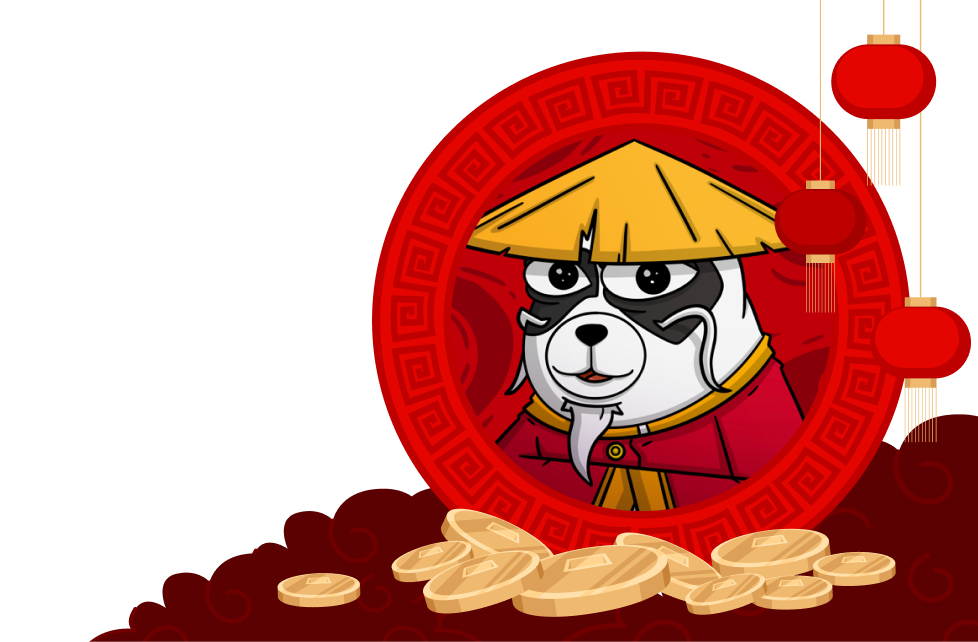
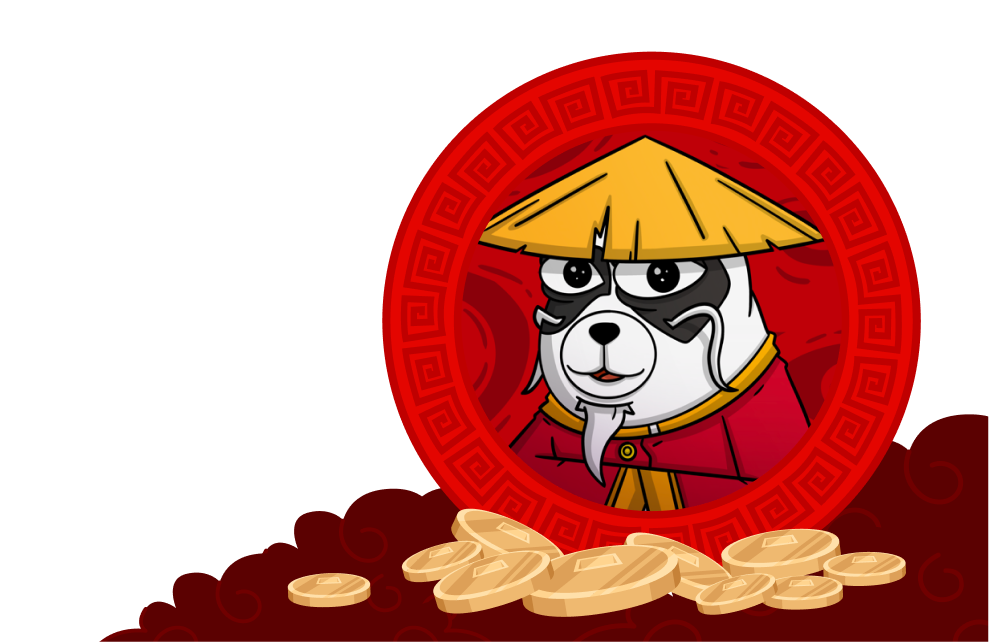
s

diff --git a/index.html b/index.html
@@ -33,17 +33,17 @@
             </div>
 
             <div class="social relative flex justify-center items-center w-auto h-full gap-[.5rem] md:gap-[1rem]">
-                <a target="_blank" href="#" class="rounded-full duration-300 hover:scale-110 border-[1.9px] border-[#BAC3ED] w-[35px] h-[35px] md:w-[56.35px] md:h-[56.35px] relative flex justify-center items-center">
+                <a target="_blank" href="https://www.x.com/" class="rounded-full duration-300 hover:scale-110 border-[1.9px] border-[#BAC3ED] w-[35px] h-[35px] md:w-[56.35px] md:h-[56.35px] relative flex justify-center items-center">
                     <div class="rounded-full border-[1.3px] border-[white] w-[90%] h-[90%] relative flex justify-center items-center">
                         <img src="./assets/images/twitter.svg" alt="" class="w-[50%] object-contain h-auto">
                     </div>
                 </a>
-                <a target="_blank" href="#" class="rounded-full duration-300 hover:scale-110 border-[1.9px] border-[#BAC3ED] w-[35px] h-[35px] md:w-[56.35px] md:h-[56.35px] relative flex justify-center items-center">
+                <a target="_blank" href="https://web.telegram.org/" class="rounded-full duration-300 hover:scale-110 border-[1.9px] border-[#BAC3ED] w-[35px] h-[35px] md:w-[56.35px] md:h-[56.35px] relative flex justify-center items-center">
                     <div class="rounded-full border-[1.3px] border-[#hite] w-[90%] h-[90%] relative flex justify-center items-center">
                         <img src="./assets/images/telegram.svg" alt="" class="w-[50%] object-contain h-auto">
                     </div>
                 </a>
-                <a target="_blank" href="#" class="rounded-full duration-300 hover:scale-110 border-[1.9px] border-[#BAC3ED] w-[35px] h-[35px] md:w-[56.35px] md:h-[56.35px] relative flex justify-center items-center">
+                <a target="_blank" href="https://solana.com/" class="rounded-full duration-300 hover:scale-110 border-[1.9px] border-[#BAC3ED] w-[35px] h-[35px] md:w-[56.35px] md:h-[56.35px] relative flex justify-center items-center">
                     <div class="rounded-full border-[1.3px] border-[white] w-[90%] h-[90%] relative flex justify-center items-center">
                         <img src="./assets/images/sol.png" alt="" class="w-[50%] object-contain h-auto sol_img">
                     </div>
@@ -78,9 +78,9 @@
                     <button class="bg-[#ffffff5b] flex justify-center items-center duration-300 hover:scale-110 px-[1.2rem] h-[40px] md:h-[54px] border-[2px] border-white rounded-full text-[16px] uppercase">
                         Chart
                     </button>
-                    <button class="bg-[#fff] flex justify-center items-center duration-300 hover:scale-110 px-[1.2rem] h-[40px] md:h-[54px] border-[2px] border-white text-[#F0000C] rounded-full text-[16px] uppercase">
+                    <a href="https://web.telegram.org/" target="_blank" class="bg-[#fff] flex justify-center items-center duration-300 hover:scale-110 px-[1.2rem] h-[40px] md:h-[54px] border-[2px] border-white text-[#F0000C] rounded-full text-[16px] uppercase">
                         BUY POPO
-                    </button>
+                    </a>
                 </div>
                 <div class="copy_address cursor-pointer flex items-center text-[17px] md:text-[21.83px] gap-[.4rem]" data-aos="fade-up"
                 data-aos-duration="500"
@@ -129,6 +129,8 @@
                     <img src="./assets/images/about_image.png" alt="" class="h-[641.81px] object-contain w-auto bottom-[-20%] lg:bottom-0 right-0 absolute">
                     <img src="./assets/images/about_bg.png" alt="" class="h-[161.4px] object-contain w-auto bottom-0 right-[40%] min-[1600px]:right-[50%] absolute">
 
+                    <!-- lentera -->
+                     <img src="./assets/images/lentera_about.svg" alt="" class="absolute object-contain h-auto w-[100px] lg:w-[150px] top-[50%] lg:top-[-10%] right-0 lampion">
                     <!-- cloud -->
                      <img src="./assets/images/cloud1.svg" alt="cloud" class="h-auto object-contain absolute top-[46%] min-[500px]:top-[50vw] right-[-10%] lg:top-[-7%] lg:right-[2%] w-[250px] lg:w-[470.31px] cloud_animation">
                      <img src="./assets/images/cloud2.svg" alt="cloud" class="h-auto object-contain absolute top-[50%] xl:top-[7%] right-[45%] xl:right-[22%] w-[180px] xl:w-[380.31px] cloud_animation" style="animation-delay: -.7s; animation-duration: 17s;">
@@ -146,9 +148,9 @@
                    <div class="relative" data-aos="fade-right"
                    data-aos-duration="500"
                    data-aos-delay="500">
-                    <button class="bg-[#fff] flex justify-center items-center duration-300 hover:scale-110 px-[1.2rem] h-[40px] md:h-[54px] border-[2px] border-white text-[#F0000C] rounded-full text-[16px] uppercase unbounded_font font-bold">
+                    <a href="https://web.telegram.org/" target="_blank" class="bg-[#fff] flex justify-center items-center duration-300 hover:scale-110 px-[1.2rem] h-[40px] md:h-[54px] border-[2px] border-white text-[#F0000C] rounded-full text-[16px] uppercase unbounded_font font-bold">
                         BUY POPO
-                    </button>
+                    </a>
                    </div>
 
                 </div>
@@ -163,7 +165,7 @@
 
             <!-- bg -->
             <div class="bg w-full h-full z-[0] absolute"> 
-                <img src="./assets/images/lentera.png" alt="" class="object-contain absolute top-[-10%] xl:top-[-3%] left-0 h-auto w-[100px] xl:w-[196.47px]"> 
+                <img src="./assets/images/lentera.png" alt="" class="object-contain absolute top-[-10%] xl:top-[-3%] left-0 h-auto w-[100px] xl:w-[196.47px] lampion"> 
 
                 <!-- cloud -->
                  <img src="./assets/images/cloud1.svg" alt="cloud" class="h-auto object-contain absolute top-[0%] min-[500px]:top-[50vw] right-[-10%] lg:top-[7%] lg:right-[-12%] w-[250px] lg:w-[470.31px] cloud_animation">
@@ -173,9 +175,12 @@
             <!-- content -->
              <div class="content w-full h-[600px]  relative max-[1024px]:flex-col xl flex items-center justify-center gap-[2rem] lg:gap-[6rem]  max-[1024px]:pb-[2rem]">
 
-                <img src="./assets/images/token_img.png" alt="" class="w-[340px] md:w-[400px] xl:w-[500.94px] h-auto object-contain" data-aos="fade-right"
-                data-aos-duration="500"
-                data-aos-delay="100">
+                <div class="relative w-[340px] md:w-[400px] xl:w-[500.94px] flex justify-center items-center  ">
+                    
+                  <img src="./assets/images/bg_token.svg" alt="" class="w-full relative z-[0] h-auto object-contain rotate_image">
+                  <img src="./assets/images/token_img.png" alt="" class="w-[80%] absolute z-[9] h-auto object-contain">
+
+                </div>
                 
                 <article class="relative tokens w-full md:w-[531px] h-auto xl:h-[464px] flex flex-col justify-between items-center lg:items-start max-[1024px]:text-center max-[1024px]:gap-[1rem]">
                     <h2 class="text-[50px] lg:text-[70px]" data-aos="fade-left"
@@ -202,7 +207,9 @@
                    <div class="relative" data-aos="fade-left"
                    data-aos-duration="500"
                    data-aos-delay="700">
-                    <button class="bg-[#fff] flex justify-center items-center duration-300 hover:scale-110 px-[1.2rem] h-[40px] md:h-[54px] border-[2px] border-white text-[#F0000C] rounded-full text-[16px] uppercase unbounded_font font-bold">BUY POPO</button>
+                   <a href="https://web.telegram.org/" target="_blank" class="bg-[#fff] flex justify-center items-center duration-300 hover:scale-110 px-[1.2rem] h-[40px] md:h-[54px] border-[2px] border-white text-[#F0000C] rounded-full text-[16px] uppercase unbounded_font font-bold">
+                    BUY POPO
+                </a>
                    </div>
 
                 </article>
@@ -355,17 +362,17 @@
             <div class="social relative flex justify-center items-center w-auto h-auto gap-[.5rem] md:gap-[1rem]" data-aos="fade-up"
             data-aos-duration="500"
             data-aos-delay="700">
-                <a target="_blank" href="#" class="rounded-full duration-300 hover:scale-110 bg-[#660000] border-[1.9px] border-[#BAC3ED] w-[40px] h-[40px] md:w-[56.35px] md:h-[56.35px] relative flex justify-center items-center">
+                <a target="_blank" href="https://www.x.com/" class="rounded-full duration-300 hover:scale-110 bg-[#660000] border-[1.9px] border-[#BAC3ED] w-[40px] h-[40px] md:w-[56.35px] md:h-[56.35px] relative flex justify-center items-center">
                     <div class="rounded-full border-[1.3px] border-[white] w-[90%] h-[90%] relative flex justify-center items-center">
                         <img src="./assets/images/twitter.svg" alt="" class="w-[50%] object-contain h-auto">
                     </div>
                 </a>
-                <a target="_blank" href="#" class="rounded-full duration-300 hover:scale-110 bg-[#660000] border-[1.9px] border-[#BAC3ED] w-[40px] h-[40px] md:w-[56.35px] md:h-[56.35px] relative flex justify-center items-center">
+                <a target="_blank" href="https://web.telegram.org/" class="rounded-full duration-300 hover:scale-110 bg-[#660000] border-[1.9px] border-[#BAC3ED] w-[40px] h-[40px] md:w-[56.35px] md:h-[56.35px] relative flex justify-center items-center">
                     <div class="rounded-full border-[1.3px] border-[#hite] w-[90%] h-[90%] relative flex justify-center items-center">
                         <img src="./assets/images/telegram.svg" alt="" class="w-[50%] object-contain h-auto">
                     </div>
                 </a>
-                <a target="_blank" href="#" class="rounded-full duration-300 hover:scale-110 bg-[#660000] border-[1.9px] border-[#BAC3ED] w-[40px] h-[40px] md:w-[56.35px] md:h-[56.35px] relative flex justify-center items-center">
+                <a target="_blank" href="https://solana.com/" class="rounded-full duration-300 hover:scale-110 bg-[#660000] border-[1.9px] border-[#BAC3ED] w-[40px] h-[40px] md:w-[56.35px] md:h-[56.35px] relative flex justify-center items-center">
                     <div class="rounded-full border-[1.3px] border-[white] w-[90%] h-[90%] relative flex justify-center items-center">
                         <img src="./assets/images/sol.png" alt="" class="w-[50%] object-contain h-auto sol_img">
                     </div>

diff --git a/assets/css/style.css b/assets/css/style.css
@@ -2,36 +2,14 @@
     margin: 0;
     padding: 0;
 }
-
-@font-face {
-    font-family: "buckin";
-    src: url('../fonts/Ckhans\ Fonts_Buckin_Bold_Demo.otf');
-}
  
-@font-face {
-    font-family: "merge";
-    src: url('../fonts/Merge\ W00\ Bold.ttf');
-}
-
 @font-face {
     font-family: "gentyDemo";
     src: url('../fonts/GentyDemo-Regular.otf');
 }
-
-@font-face {
-    font-family: "amiger";
-    src: url('../fonts/AMIGER_CARTOON-NORMAL-400-100.OTF');
-}
  
-:root{  
-    --font-buckin:"buckin", sans-serif;  
-    --font-merge:"merge", sans-serif;  
-    --font-gentyDemo:"gentyDemo", sans-serif;  
-    --font-amiger:"amiger", sans-serif;  
- 
-    --gradient1:linear-gradient(96.66deg, #E0B5FC -14.92%, #FFD87D 60.94%, #554CFF 139.9%);
-    --gradient2:linear-gradient(96.66deg, #FFFF7D -14.92%, #E0B5FC 69.46%, #FF4C9D 122.87%); 
-    --gradient3:linear-gradient(96.52deg, #7DE0FF -14.96%, #FF8383 56.76%, #85FF4C 119.1%);
+:root{    
+    --font-gentyDemo:"gentyDemo", sans-serif;     
 }
 
 body{
@@ -99,3 +77,24 @@ body{
         transform: translateX(10%);
     }
 }
+
+.rotate_image{
+    animation: rotate_image 17s linear infinite ;
+}
+
+@keyframes rotate_image {
+    0%{
+        transform:rotate(0deg) ;
+    }
+    100%{
+        transform:rotate(360deg) ;  
+    } 
+}
+ 
+.lampion {  
+    transform-origin: 50% 4px;
+    animation: l15 3s infinite cubic-bezier(0.5,300,0.5,-300);
+  }
+  @keyframes l15 { 
+   100% {transform: rotate(0.05deg)}
+  }
